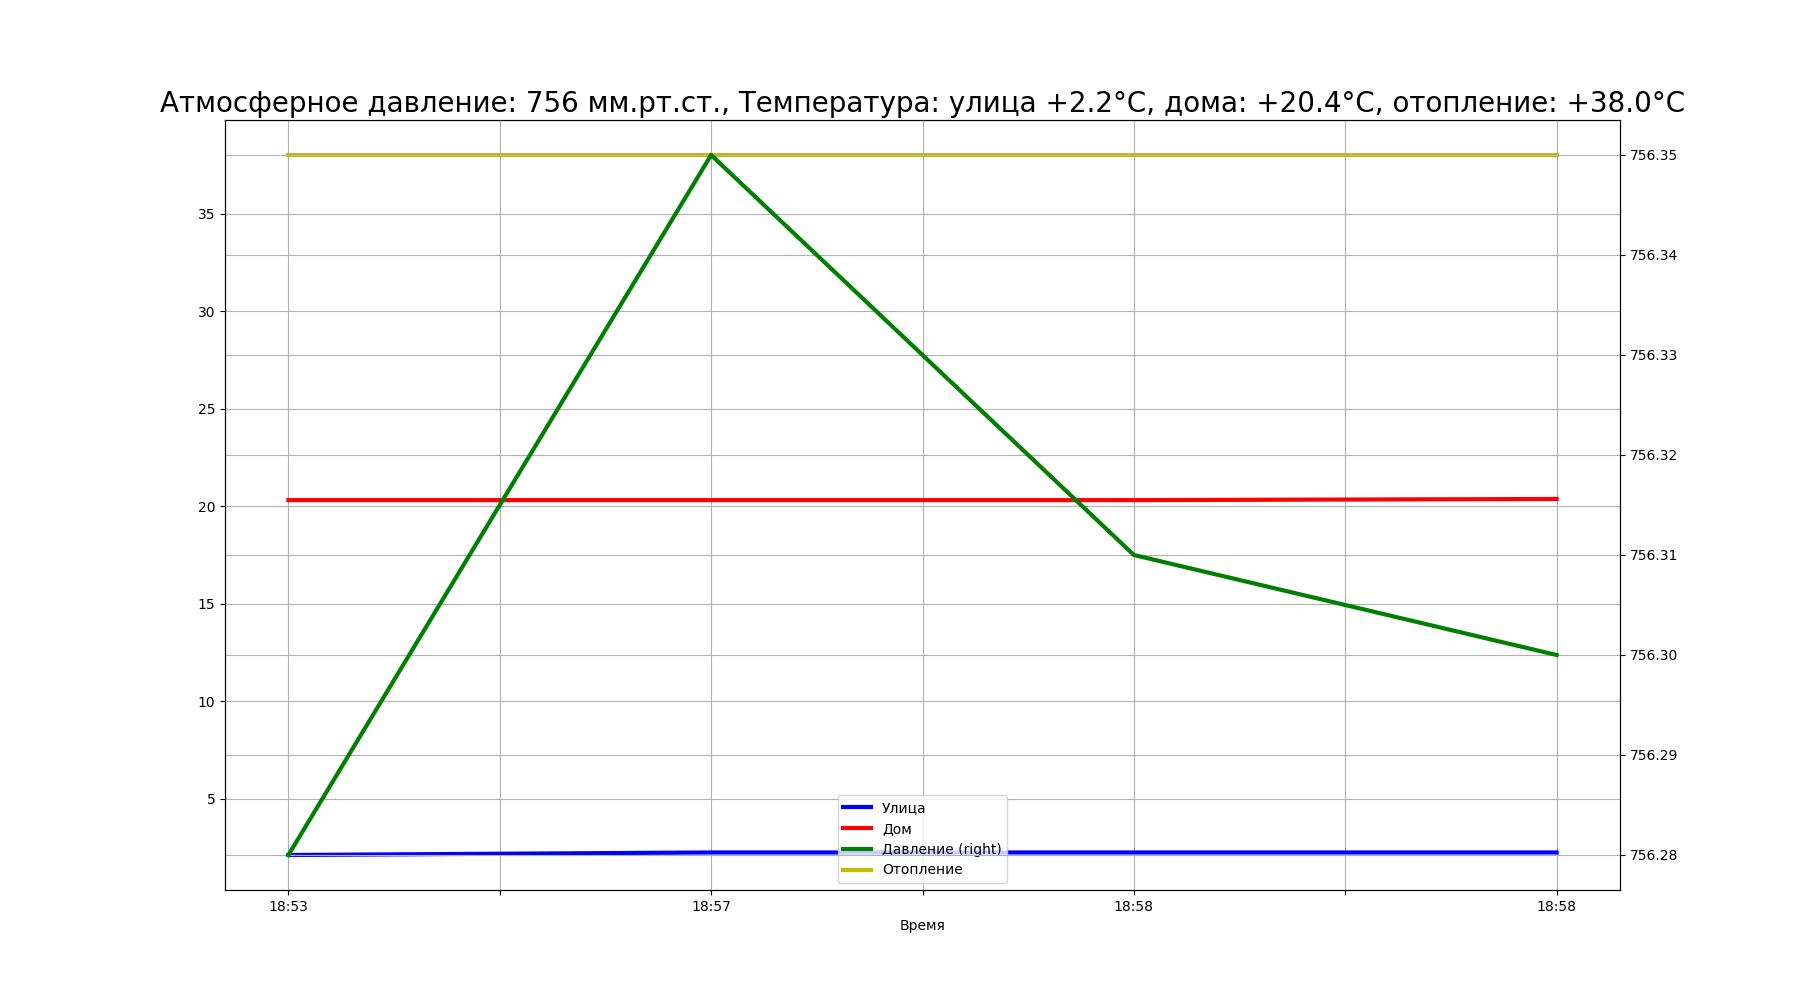
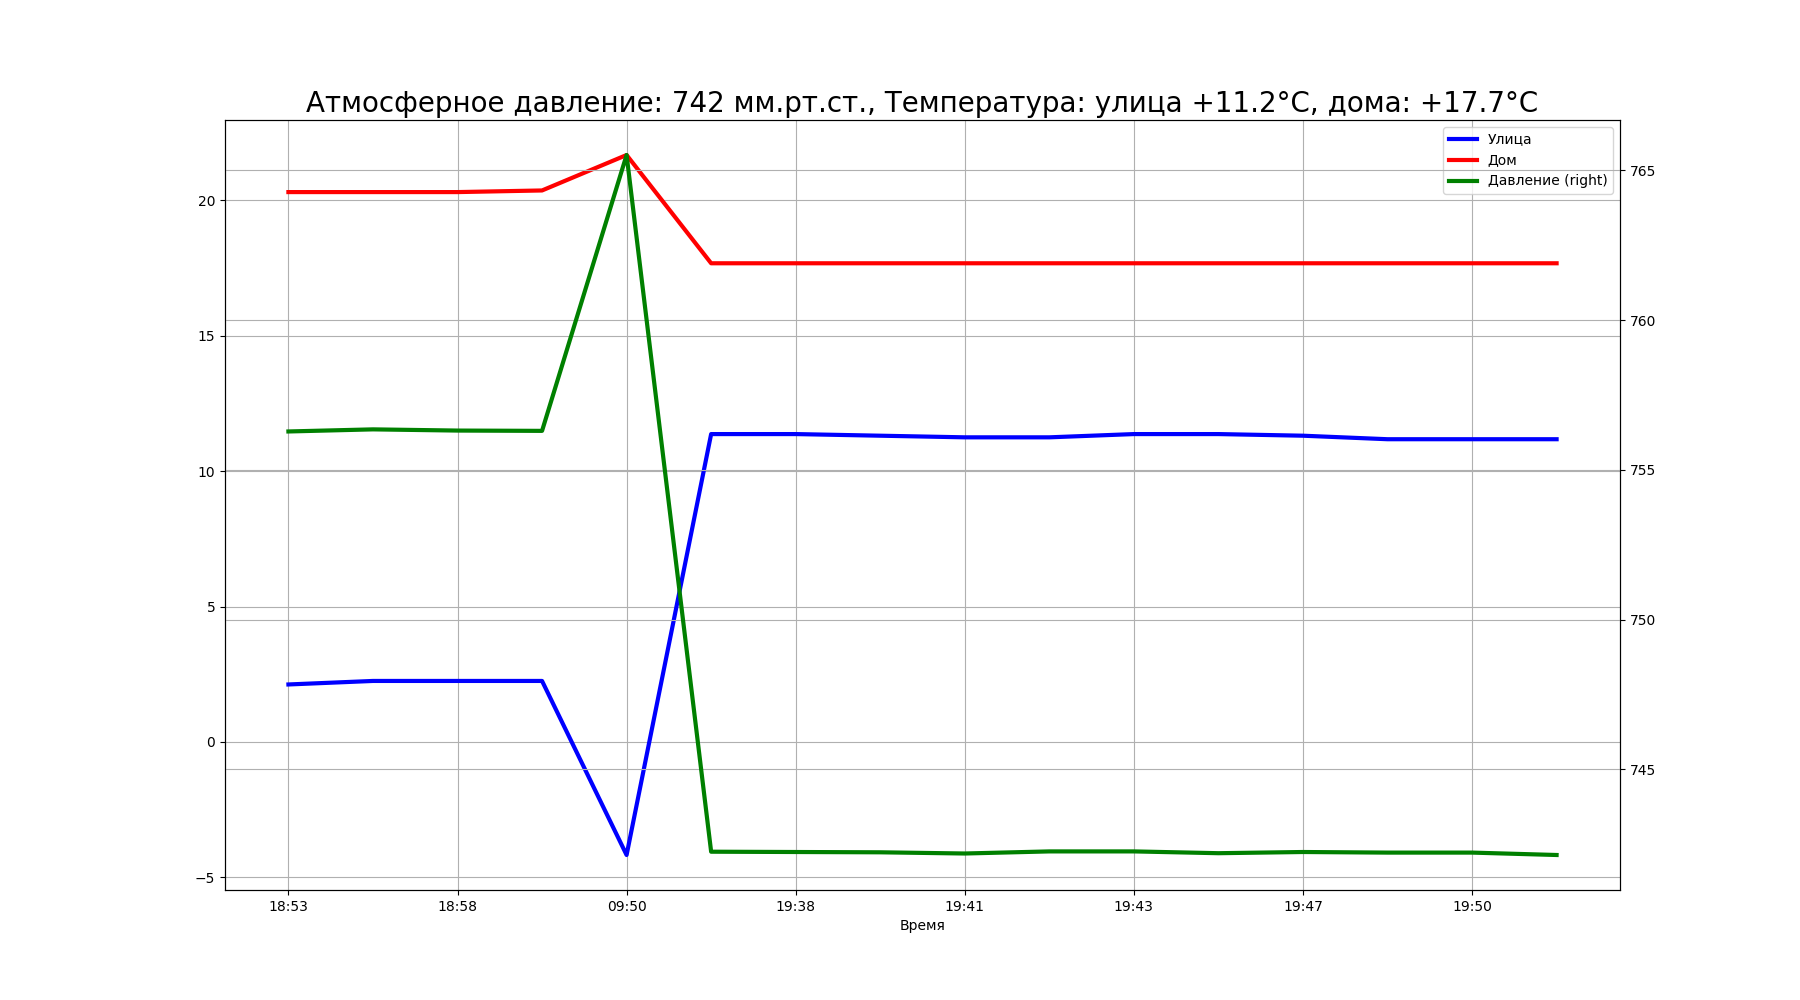
Добавлено автоматическое отключение отображения графика температуры отопления с апреля по сентябрь.

diff --git a/updater2.py b/updater2.py
@@ -13,7 +13,7 @@ temp_k = []
 temp_hot = []  # Массив для хранения данных температуры
 pressure = []  # Массив для записи данных о давлении
 time_get = []
-interval = 60 * 1  # Интервал обновления данных в секундах
+interval = 60 * 10  # Интервал обновления данных в секундах
 graph_delta = 48  # Количество часов для отображения на графике
 data_col = (3600 * graph_delta) / interval  # Количество записей для отображения на графике
 
@@ -68,6 +68,8 @@ def update_data():  # Функция для обновления данных
         temp_k = read_from_json(temp_k, 'temp_k.json')
         time_get = read_from_json(time_get, 'time_get.json')
         while True:
+            mont = int(time.strftime('%m'))  # Получаем месяц
+            print(type(mont))
             time_get.append(time.strftime('%H:%M'))  # Получаем время
             sens_t_ul = float(zapros_sensor(url_1, 1))  # Получаем данные с сенсора во временную переменную
             print(type(sens_t_ul))
@@ -96,16 +98,26 @@ def update_data():  # Функция для обновления данных
             print(
                 f'Обновлено в {time_get[-1]}: {temp[-1]}, {temp_k[-1]}, {int((pressure[-1]))}')  # Выводим время
             # последнего обновления
-            df = pd.DataFrame(
-                {'Время': time_get, 'Улица': temp, 'Дом': temp_k, 'Давление': pressure,
-                 'Отопление': temp_hot})  # Создаем датафрейм
             plt.figure(1, figsize=(20, 15), dpi=80)  # Создаем график и задаем размеры его по ширине и высоте
-            ax = df.plot(x='Время', y=['Дом', 'Улица', 'Отопление'], figsize=(18, 10), grid=True)  # Создаем график
-            ax = df.plot(x='Время', secondary_y=['Давление'], figsize=(18, 10), grid=True,
-                         color=['b', 'r', 'g', 'y'], linewidth=3)  # Создаем график
-            plt.title(
-                f'Атмосферное давление: {int(pressure[-1])} мм.рт.ст., Температура: улица {plus(temp[-1])}°C, дома: {plus(temp_k[-1])}°С, отопление: {plus(temp_hot[-1])}°С',
-                fontsize=20)  # Задаем заголовок графика
+            if 3 < mont < 10:
+                df = pd.DataFrame(
+                    {'Время': time_get, 'Улица': temp, 'Дом': temp_k, 'Давление': pressure})  # Создаем датафрейм
+                ax = df.plot(x='Время', y=['Дом', 'Улица'], figsize=(18, 10), grid=True)  # Создаем график
+                ax = df.plot(x='Время', secondary_y=['Давление'], figsize=(18, 10), grid=True,
+                             color=['b', 'r', 'g', 'y'], linewidth=3)  # Создаем график
+                plt.title(
+                    f'Атмосферное давление: {int(pressure[-1])} мм.рт.ст., Температура: улица {plus(temp[-1])}°C, дома: {plus(temp_k[-1])}°С',
+                    fontsize=20)  # Задаем заголовок графика
+            else:
+                df = pd.DataFrame(
+                    {'Время': time_get, 'Улица': temp, 'Дом': temp_k, 'Давление': pressure,
+                     'Отопление': temp_hot})  # Создаем датафрейм
+                ax = df.plot(x='Время', y=['Дом', 'Улица', 'Отопление'], figsize=(18, 10), grid=True)  # Создаем график
+                ax = df.plot(x='Время', secondary_y=['Давление'], figsize=(18, 10), grid=True,
+                             color=['b', 'r', 'g', 'y'], linewidth=3)  # Создаем график
+                plt.title(
+                    f'Атмосферное давление: {int(pressure[-1])} мм.рт.ст., Температура: улица {plus(temp[-1])}°C, дома: {plus(temp_k[-1])}°С, отопление: {plus(temp_hot[-1])}°С',
+                    fontsize=20)  # Задаем заголовок графика
             plt.grid(True)  # Включаем сетку
             plt.savefig('static/image.png')  # Сохраняем график в файл
             plt.clf()  # Очищаем график
